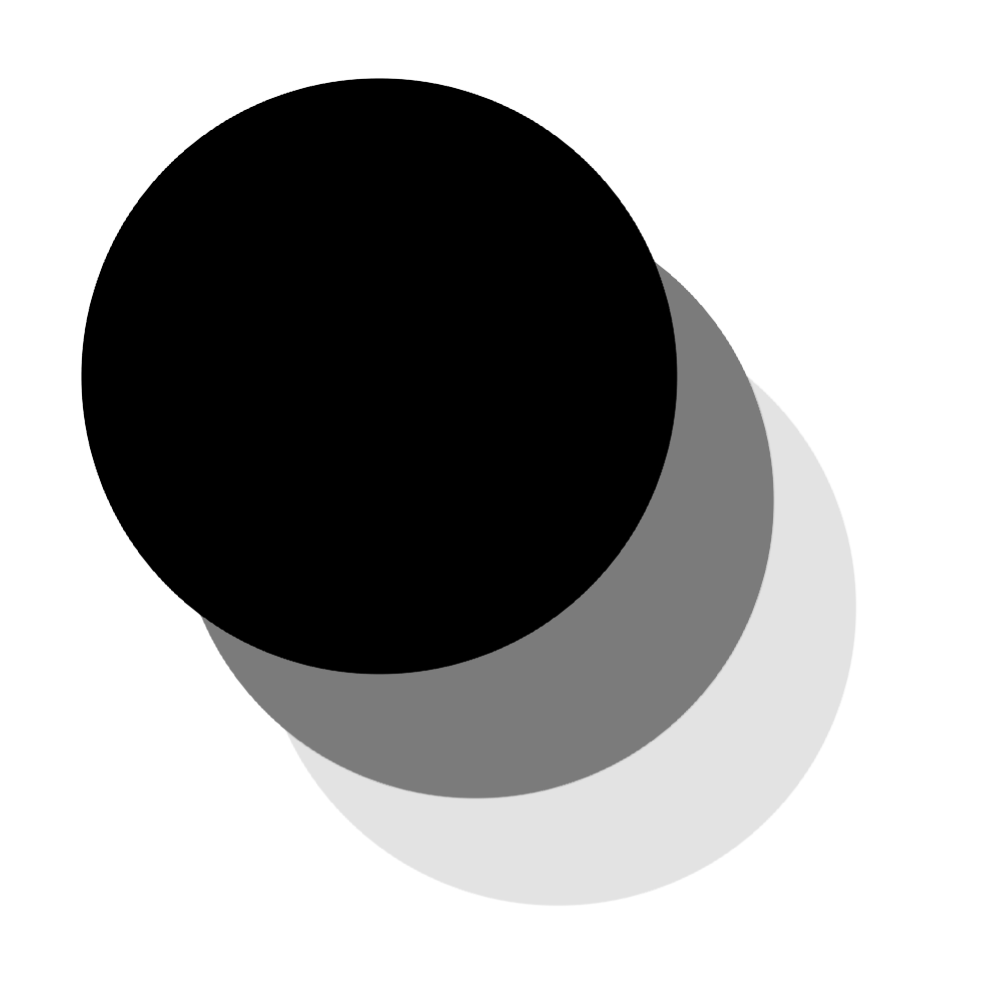
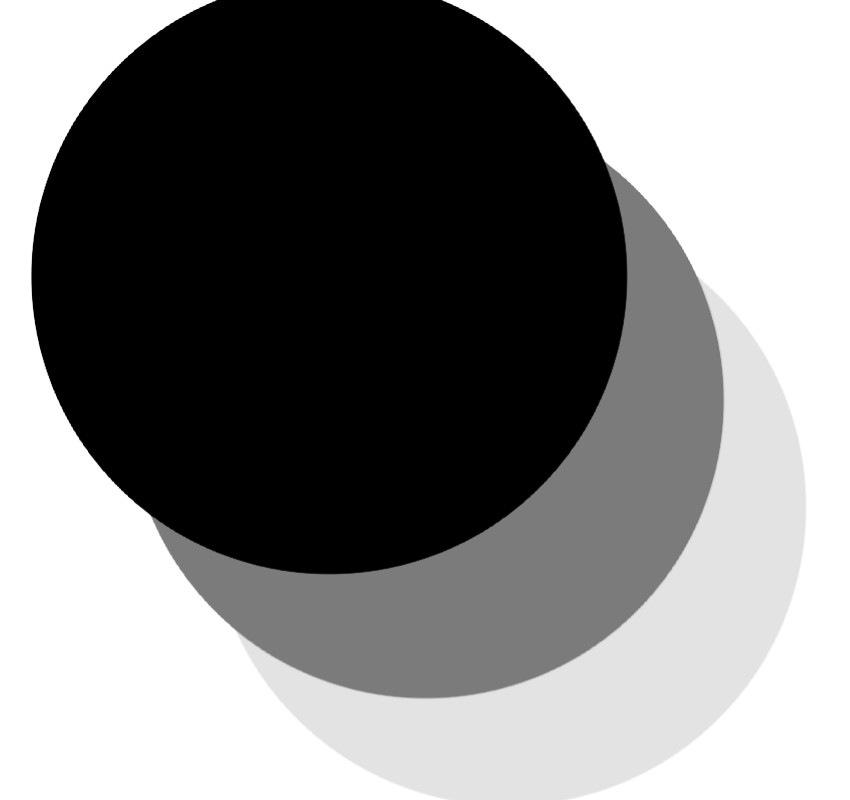
Added crop functionality

diff --git a/main.py b/main.py
@@ -1,6 +1,7 @@
 from PIL import Image
 import os
-
+from enum import Enum
+    
 # This script layers png images on top of each other and creates a final layered png file
 # The order of the image must be appended to the end of its name like so: SampleImage_1.png
 # An image with a lower order will apear behind an image with a higher order
@@ -11,8 +12,16 @@ import os
 imageDir = "SampleImages/"
 # path of the directory that you want your final image to be saved in 
 saveDir = "SavedIMages/"
+# path of the directory that you want your cropped images to be saved in (if save is set to true) 
+croppedDir = "CroppedImages/"
 # what you want your final image to be called
 finalImageName = "FinalImage"
+# x,y dimensions of your images (all images will be cropped to this size)
+imageDim = [900,900]
+# x,y offset of your cropped images (the coordinates of the topleft corner of your image)
+offsetCrop = [50,100]
+# set to true if you want your cropped images to be saved in the croppedDir set above
+saveCroppedImages = True
 #========================================
 
 # checks if the directories exist
@@ -29,14 +38,24 @@ def getNum(img):
     except ValueError:
         return float('inf')
 
+# crops image to the imageDim values with the offsetCrop offset
+def cropImage(image):
+    #left top right bottom
+    image = image.crop((offsetCrop[0],offsetCrop[1],imageDim[0],imageDim[1]))
+    return image
+
 # uses the PIL library to layer images and saves to the save directory
 def layerImages():
     images = os.listdir(imageDir)
     images.sort(key=getNum)
     try:
         img1 = Image.open(imageDir + images[0])
-    except:
+        img1 = cropImage(img1)
+        if(saveCroppedImages):
+            img1.save(croppedDir + "Cropped_" + images[0])
+    except Exception as e:
         print("Error while reading images.")
+        print(e)
         return
     for image in images:
         if(image[-4:].lower() == ".png"):
@@ -45,9 +64,13 @@ def layerImages():
             else:
                 try:
                     img2 = Image.open(imageDir + image)
+                    img2 = cropImage(img2)
+                    if(saveCroppedImages):
+                        img2.save(croppedDir + "Cropped_" + image)
                     img1.paste(img2, (0,0), mask = img2)
-                except:
+                except Exception as e:
                     print("Error while reading images.")
+                    print(e)
                     return
         else:
             print("File {image} is not a .png file.\n".format(image = image))

diff --git a/README.md b/README.md
@@ -1,8 +1,10 @@
 # OverlayPNGScript-Python
  Overlay PNG Python Script
 
-This script layers png images on top of each other and creates a final layered png file
-The order of the image must be appended to the end of its name like so: SampleImage_1.png
-An image with a lower order will apear behind an image with a higher order
+This script layers png images on top of each other and creates a final layered png file.
+The order of the image must be appended to the end of its name like so: SampleImage_1.png.
+An image with a lower order will apear behind an image with a higher order.
 
-Make sure to change the imageDir and saveDir parameters in the code  
+Make sure to change the parameters at the top in the code.
+
+![Image not found](/Screenshots/CropOffsetScreenshot.png?raw=true "How cropping offset works")
